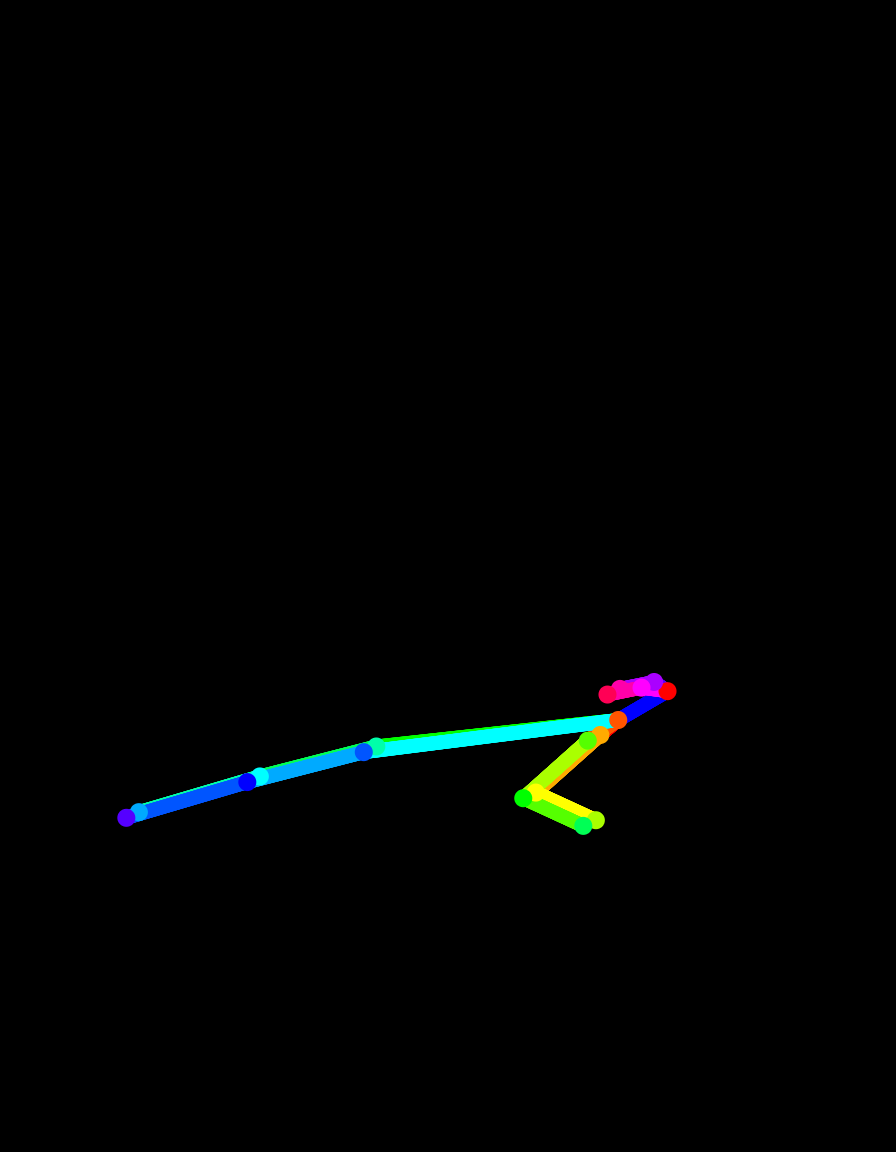
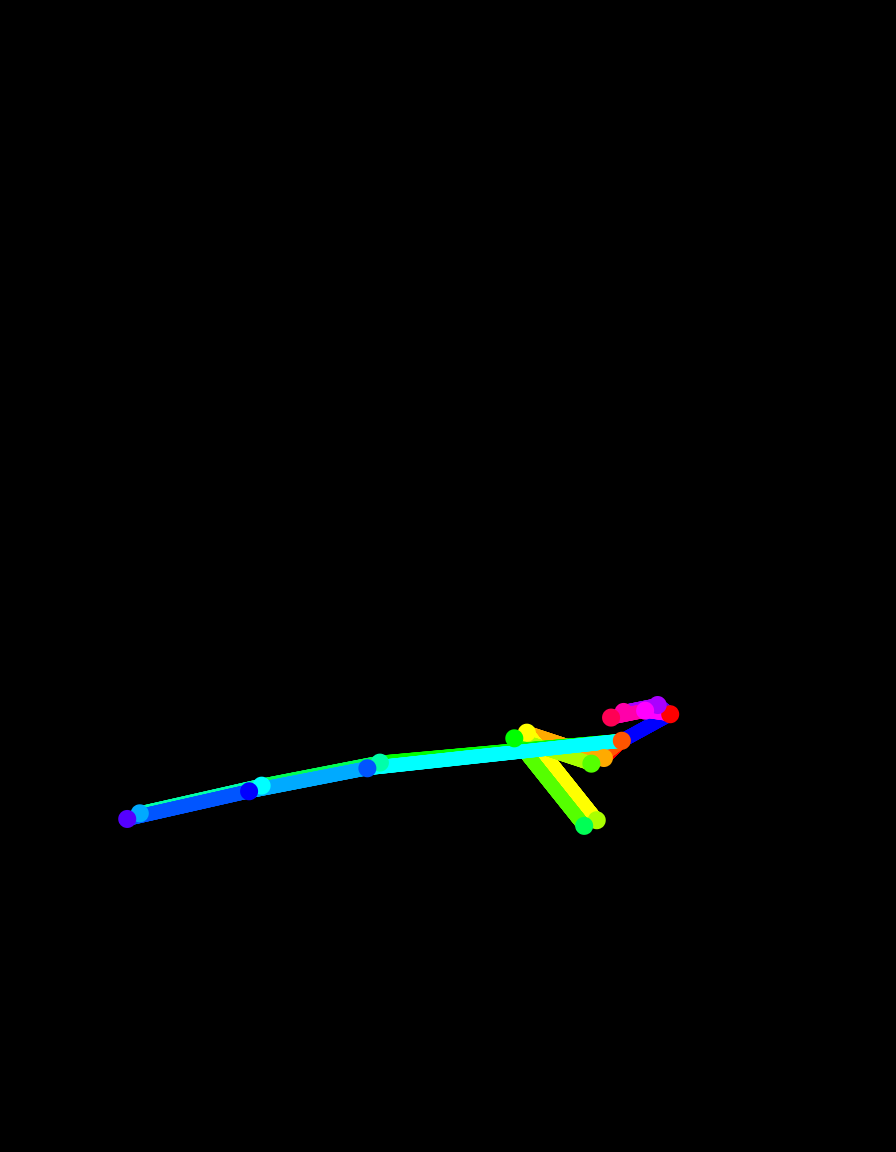
fix(poser): albuen i armhevingens bunnposisjon lå på gulvet
A/B-test på kitor utelukket den hypotesen jeg hadde: kontrollvinduet 0,65 mot
0,9 (og styrke 0,9 mot 1,0) ga praktisk talt identiske bilder. ControlNet
fulgte skjelettet helt riktig hele tiden — skjelettet var feil.

Målt: albuen lå 28 px over gulvlinja. Det ER en underarm i gulvet, og modellen
tegnet følgelig en underarmsplanke på en pute. I en armhevings bunnposisjon
peker overarmen BAKOVER og litt opp fra skulderen; bare hånden er i gulvet.
Albuen er nå 88 px over gulvet.

Kontrollvinduet er likevel gjort styrbart — A/B-en var verdt å kunne kjøre, og
neste hypotese trenger samme mulighet.

Hentescriptet hadde en feil av en annen klasse: ComfyUI-historikken er DELT med
andre prosjekter på kitor, og filteret mitt var bare på filnavn. Det dro fire
SynthIQ-bilder inn i pipeline/candidates/. Slettet, og filteret er nå begrenset
til mintrener/-mappa. Ingenting av det ble committet.

Nedlastingen i batchen var også feil: waitForCompletion returnerer selve
bildeobjektet, ikke historikken. Alle 21 bildene i første kjøring ble generert
med status success og lå på kitor — feilmeldingen min la skylden på ComfyUI for
en feil i denne fila.

Changed region(s): [[0.125, 0.5625, 0.7812, 0.7188]]

diff --git a/scripts/fetchGeneratedImages.ts b/scripts/fetchGeneratedImages.ts
@@ -1,0 +1,84 @@
+import fs from 'fs';
+import path from 'path';
+import { fileURLToPath } from 'node:url';
+import { getKitorToken } from './kitorEnv';
+
+/**
+ * Henter ferdiggenererte bilder fra ComfyUIs historikk.
+ *
+ * Nyttig når generering lyktes, men nedlastingen i batchen feilet — bildene
+ * ligger da på kitor og skal ikke lages på nytt. GPU-tid brukt to ganger på
+ * samme bilde er den dyreste feilen vi kan gjøre i denne pipelinen.
+ *
+ * Kjør:  npx tsx scripts/fetchGeneratedImages.ts [prefiks]
+ */
+
+const KITOR_HOST = process.env.KITOR_HOST || 'https://kitor.tail49f298.ts.net';
+const COMFY_PATH = '/comfy-mintrener';
+const ROOT = path.resolve(path.dirname(fileURLToPath(import.meta.url)), '..');
+const UT_DIR = path.join(ROOT, 'pipeline', 'candidates');
+
+interface BildeRef {
+  filename: string;
+  subfolder: string;
+  type: string;
+}
+
+async function main() {
+  const token = getKitorToken(ROOT);
+  const prefiks = process.argv[2] ?? '';
+
+  const res = await fetch(`${KITOR_HOST}${COMFY_PATH}/history?max_items=200`, {
+    headers: { Authorization: `Bearer ${token}` },
+  });
+  if (!res.ok) throw new Error(`Kunne ikke lese historikk (${res.status})`);
+  const historikk = (await res.json()) as Record<string, any>;
+
+  const bilder: BildeRef[] = [];
+  for (const økt of Object.values(historikk)) {
+    if (økt?.status?.status_str !== 'success') continue;
+    for (const utgang of Object.values(økt.outputs ?? {})) {
+      for (const im of (utgang as any).images ?? []) {
+        // ComfyUI-historikken er DELT med andre prosjekter på kitor. Uten
+        // mappe-filteret hentet dette SynthIQ-bilder inn i vårt repo — annet
+        // prosjekts innhold, som ikke skal ligge her.
+        const våres = (im.subfolder ?? '').startsWith('mintrener/');
+        if (im.type === 'output' && våres && im.filename.startsWith(prefiks)) bilder.push(im);
+      }
+    }
+  }
+
+  // Siste kjøring vinner ved samme navn: historikken er kronologisk, og en
+  // regenerert positur skal erstatte den forrige.
+  const unike = new Map<string, BildeRef>();
+  bilder.forEach((b) => unike.set(b.filename, b));
+
+  console.log(`${unike.size} bilder i historikken${prefiks ? ` med prefiks «${prefiks}»` : ''}`);
+
+  let hentet = 0;
+  for (const b of unike.values()) {
+    // «push-ups_f0_v2_00001_.png» → øvelse «push-ups», fil «push-ups_f0_v2.png»
+    const rent = b.filename.replace(/_\d+_\.png$/, '.png');
+    const øvelse = rent.replace(/_f\d+_v\d+\.png$/, '');
+    const mappe = path.join(UT_DIR, øvelse);
+    fs.mkdirSync(mappe, { recursive: true });
+
+    const url = `${KITOR_HOST}${COMFY_PATH}/view?filename=${encodeURIComponent(
+      b.filename
+    )}&subfolder=${encodeURIComponent(b.subfolder)}&type=${encodeURIComponent(b.type)}`;
+    const r = await fetch(url, { headers: { Authorization: `Bearer ${token}` } });
+    if (!r.ok) {
+      console.warn(`  ✗ ${rent} (${r.status})`);
+      continue;
+    }
+    fs.writeFileSync(path.join(mappe, rent), Buffer.from(await r.arrayBuffer()));
+    hentet++;
+  }
+
+  console.log(`Hentet ${hentet} bilder → pipeline/candidates/`);
+}
+
+main().catch((err) => {
+  console.error('Henting feilet:', err);
+  process.exit(1);
+});

diff --git a/scripts/runPoseTestBatch.ts b/scripts/runPoseTestBatch.ts
@@ -44,8 +44,19 @@ const ROOT = path.resolve(path.dirname(fileURLToPath(import.meta.url)), '..');
 const POSE_DIR = path.join(ROOT, 'pipeline', 'poses');
 const UT_DIR = path.join(ROOT, 'pipeline', 'candidates');
 
-const UTVALG = ['push-ups', 'rygghev-superman', 'planke', 'sprellmenn'];
-const SEEDS_PER_POSISJON = 3;
+const UTVALG = (process.env.POSE_UTVALG ?? 'push-ups,rygghev-superman,planke,sprellmenn').split(',');
+const SEEDS_PER_POSISJON = Number(process.env.POSE_SEEDS ?? 3);
+
+/**
+ * Hvor lenge ControlNet holder posituren.
+ *
+ * Vedlegg A oppgir 0,65. Den verdien ble kalibrert på et kettlebell-sving — en
+ * stor, oppreist figur. Målt på armhevinger 2026-08-31 overføres den ikke:
+ * modellen fulgte kroppslinja og kameravinkelen, men rettet den bøyde armen opp
+ * til en planke i de siste 35 % av stegene. Derfor er den styrbar.
+ */
+const CONTROL_END = Number(process.env.POSE_CONTROL_END ?? 0.65);
+const CONTROL_STRENGTH = Number(process.env.POSE_CONTROL_STRENGTH ?? 0.9);
 
 /**
  * Legger skjelettet i ComfyUIs input-mappe.
@@ -123,7 +134,7 @@ async function main() {
           seed: seedForExercise(id) + v,
           prompt: byggPrompt(id, fase),
           poseRef: '',
-          filnavn: `${id}_f${fase}_v${v}`,
+          filnavn: `${id}_f${fase}_v${v}${CONTROL_END !== 0.65 ? `_e${Math.round(CONTROL_END * 100)}` : ''}`,
         });
       }
       console.log(`  ${id} fase ${fase}: ${navn}`);
@@ -169,14 +180,18 @@ async function main() {
       const mål = path.join(mappe, `${j.filnavn}.png`);
 
       try {
-        const wf = buildAstridFluxPoseWorkflow(j.prompt, j.seed, j.filnavn, j.poseRef);
+        const wf = buildAstridFluxPoseWorkflow(j.prompt, j.seed, j.filnavn, j.poseRef, {
+          controlStrength: CONTROL_STRENGTH,
+          controlEnd: CONTROL_END,
+        });
         const promptId = await submitPrompt(token, wf);
-        const hist = await waitForCompletion(token, promptId, 240);
-        const bilder = Object.values(hist.outputs || {}).flatMap(
-          (o: any) => o.images || []
-        );
-        if (bilder.length === 0) throw new Error('ComfyUI returnerte ingen bilder');
-        await downloadImage(token, bilder[0], mål);
+        // waitForCompletion returnerer SELVE bildeobjektet ({filename, subfolder,
+        // type}), ikke historikken. Første utkast behandlet det som en historikk
+        // og fant naturlig nok ingen bilder — og feilmeldingen la skylden på
+        // ComfyUI for en feil i denne fila.
+        const bilde = await waitForCompletion(token, promptId, 240);
+        if (!bilde?.filename) throw new Error('Fikk ingen filreferanse tilbake');
+        await downloadImage(token, bilde, mål);
         ok++;
         console.log(`[${i + 1}/${jobber.length}] ✓ ${j.filnavn}`);
       } catch (err) {

diff --git a/src/services/imagePromptService.ts b/src/services/imagePromptService.ts
@@ -255,11 +255,20 @@ export function buildAstridFluxPoseWorkflow(
   seed: number,
   filenamePrefix: string,
   poseImageName: string,
-  options: { steps?: number; guidance?: number; controlStrength?: number } = {}
+  options: {
+    steps?: number;
+    guidance?: number;
+    controlStrength?: number;
+    controlEnd?: number;
+  } = {}
 ) {
   const steps = options.steps ?? 24;
   const guidance = options.guidance ?? 3.5;
   const controlStrength = options.controlStrength ?? 0.9;
+  // Vedleggets 0,65 er kalibrert på en stor oppreist figur og holder ikke for
+  // liggende positurer — se runPoseTestBatch. Derfor et argument, ikke en
+  // konstant.
+  const controlEnd = options.controlEnd ?? 0.65;
 
   return {
     "1": {
@@ -319,7 +328,7 @@ export function buildAstridFluxPoseWorkflow(
       "inputs": {
         "strength": controlStrength,
         "start_percent": 0.0,
-        "end_percent": 0.65,
+        "end_percent": controlEnd,
         "positive": ["7", 0],
         // Ved cfg 1,0 er negativ betingelse inaktiv (vedlegg A § A.4), men
         // noden krever inngangen. Samme betingelse inn som positiv.
